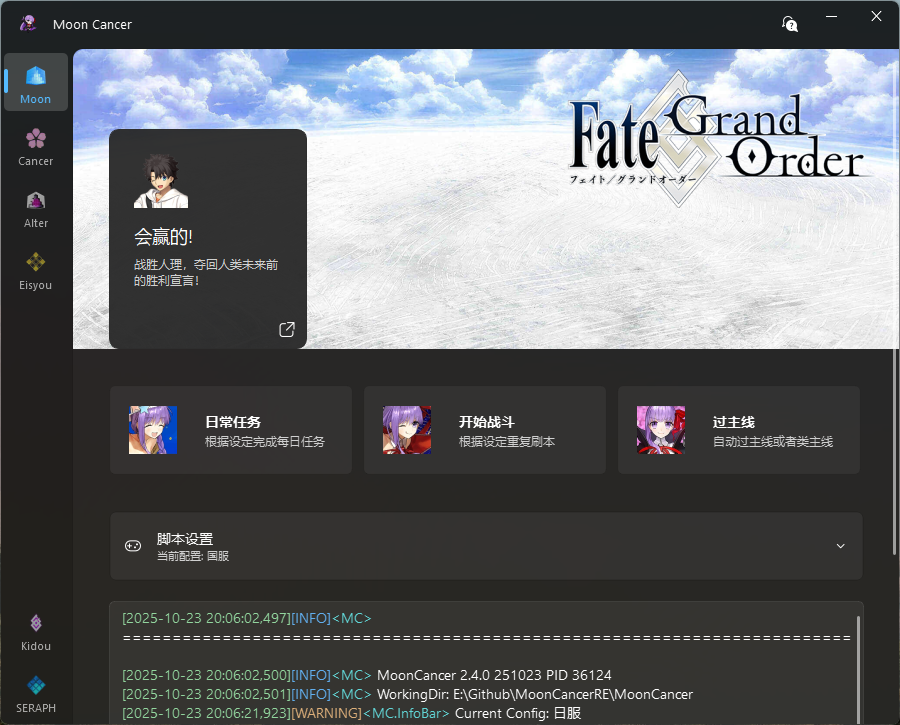
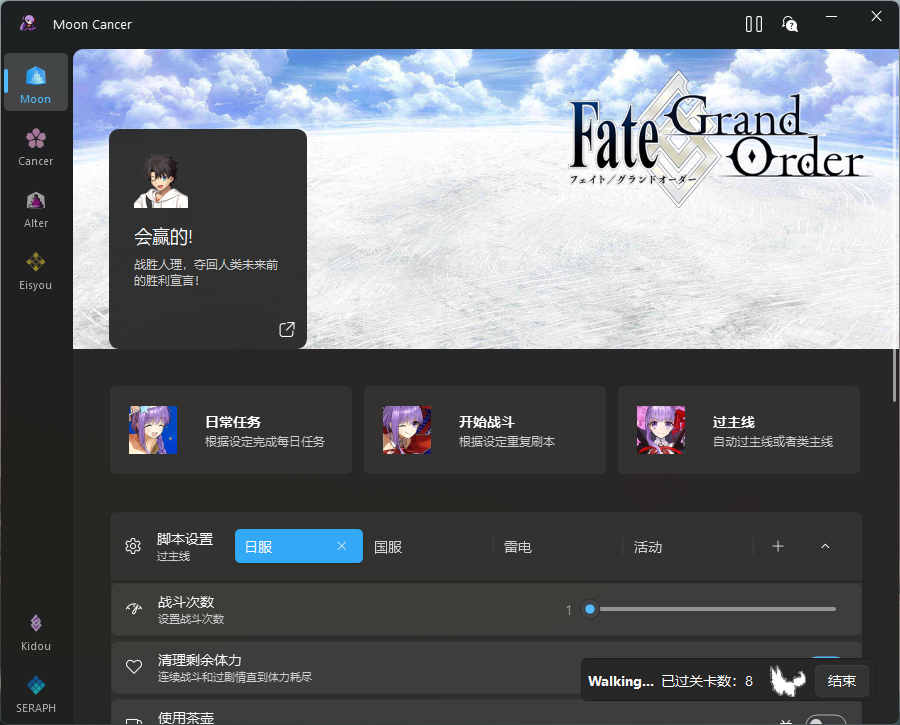
v2.4.1

diff --git a/src/content/posts/MoonCancer1.md b/src/content/posts/MoonCancer1.md
@@ -55,7 +55,7 @@ draft: false
 - 回忆关卡部分关卡在边缘位置需要手动点一下进入关卡列表，有些关卡通关后会回到地图也需要手动点一下回到关卡列表，因为是主线关卡，所以也会遇到强制马修助战会卡住，某些自动编队的情况也可能打乱现有编队，请注意
 
 ## 脚本设置
-设置主页运行任务的具体参数，可展开折叠
+设置主页运行任务的具体参数，可展开折叠，支持添加移除配置，右键可以重命名配置，支持多配置切换，切换后会结束当前任务并断开连接
 ![settings2](../../assets/images/mooncaner/settings2.png)
 - **战斗次数** 如果拖动不精准可以键盘左右键微调，日常任务默认打三次，屯着多次的要一次打完可以直接用战斗设置次数打，过剧情除非开启清理剩余体力，不然会不停过，跟这里的战斗次数无关
 - **清理剩余体力** 开启后，所有战斗都会在战斗次数耗尽后，战斗到体力不足
@@ -66,4 +66,4 @@ draft: false
 - **日常任务** 选择每日刷的本，可选择白纸化地球本和冠位戴冠战，或者都不打，按需选取，但要注意是否已经开放。冠位战的情况下要把冠位认定战打了，因为默认打最后一个本，不过没打的话会自动打了，要注意一下
 
 ## 日志窗口
-出现问题时可简单用查看情况
+任务结束后会输出战斗结果(用时、战斗数、掉落数)，以及结束的原因，出现问题时可简单用查看情况

diff --git a/src/content/posts/MoonCancer0.md b/src/content/posts/MoonCancer0.md
@@ -61,7 +61,6 @@ draft: false
 请在设置之前打开要使用的模拟器，多开的情况要保证目标模拟器先启动，不然修改数值会失败
 :::
 ![settings1](../../assets/images/mooncaner/settings1.png)
-- `配置`支持添加移除配置，右键可以重命名配置，支持多配置切换
 - `模拟器设备`列表里有的都支持自动搜索，没有就选other，这里选MuMu和雷电的话默认使用高速连接，切换到other时只要参数正确也能正常使用adb连接；如果高速连接出现问题可以切换到other使用默认连接方式，`如果是新版MuMu只能选mumu才能正常使用`。<br>
 可以自动搜索已经在运行的模拟器，自动搜索设备并设置好所有参数理论支持MuMu、雷电、蓝叠、逍遥、夜神，但只测试了MuMu和雷电，搜不到就自己输入对应的参数，端口上网搜XX模拟器端口，连接问题可以参考[BBChannel](https://www.bilibili.com/opus/605452889655035035?spm_id_from=333.999.0.0)的相关说明。**注意，如果自动搜索成功就不要动下面的模拟器位置和虚拟机进程名称**
 - `服务器和包名`可以选择国服和日服，更改后请设置包名。包名默认是B服，其他客户端要修改，设置好连接参数后，打开模拟器后能自动搜索，搜索失败就自己填了

diff --git a/src/content/posts/MoonCancer.md b/src/content/posts/MoonCancer.md
@@ -13,6 +13,13 @@ draft: false
 [Cancer界面说明](../mooncancer2)<br>
 [Alter界面说明](../mooncancer3)<br>
 [Eisyou界面说明](../mooncancer4)<br>
+## 2025年10月30日v2.4.1
+1.更改优化ui，切换配置更方便，显示战斗数<br>
+2.适配日服过主线的部分情况<br>
+3.增加结束后输出战斗结果(用时、战斗数、掉落数)<br>
+4.增加检测mumu后台保活是否开启<br>
+5.优化助战选择，避免误判<br>
+6.优化模拟器连接，避免部分错误<br>
 ## 2025年10月23日v2.4.0
 1.更新主页UI，更改任务布局，优化使用体验<br>
 2.新增首通关卡，清理幕间，进阶关卡，回忆关卡，以及一切需要通关拿奖励的情况<br>
